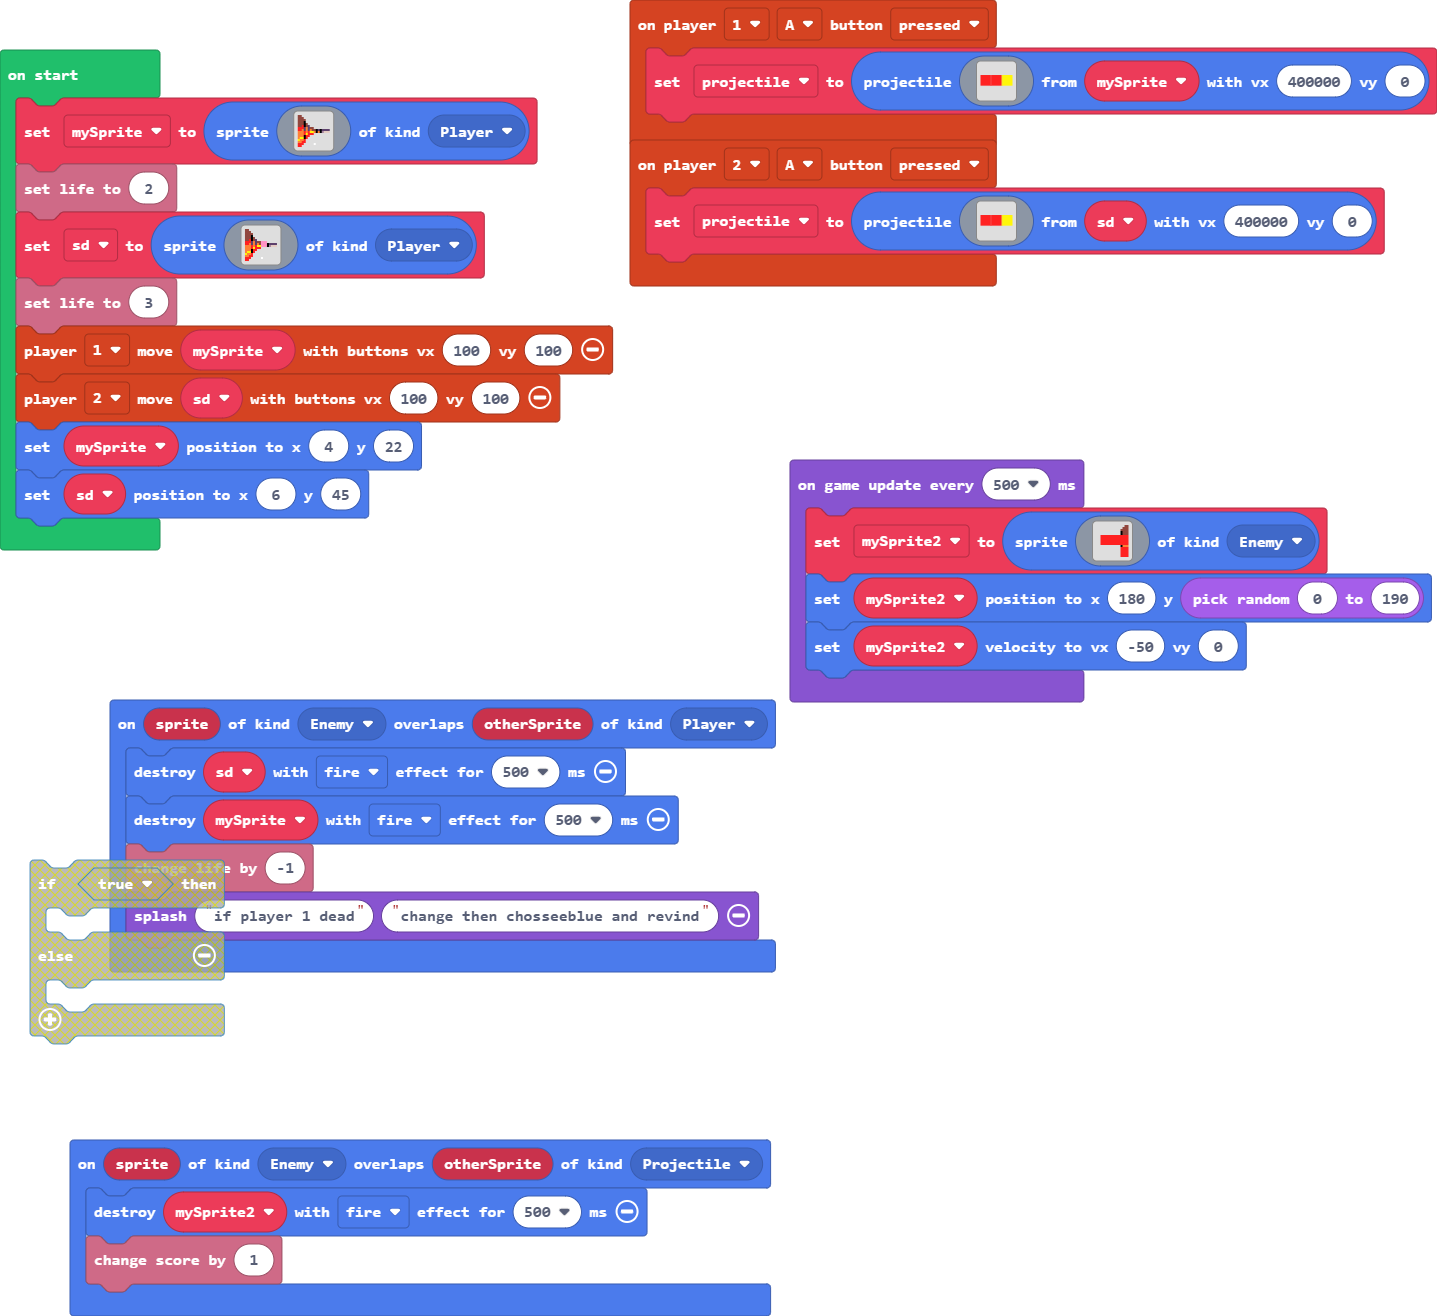
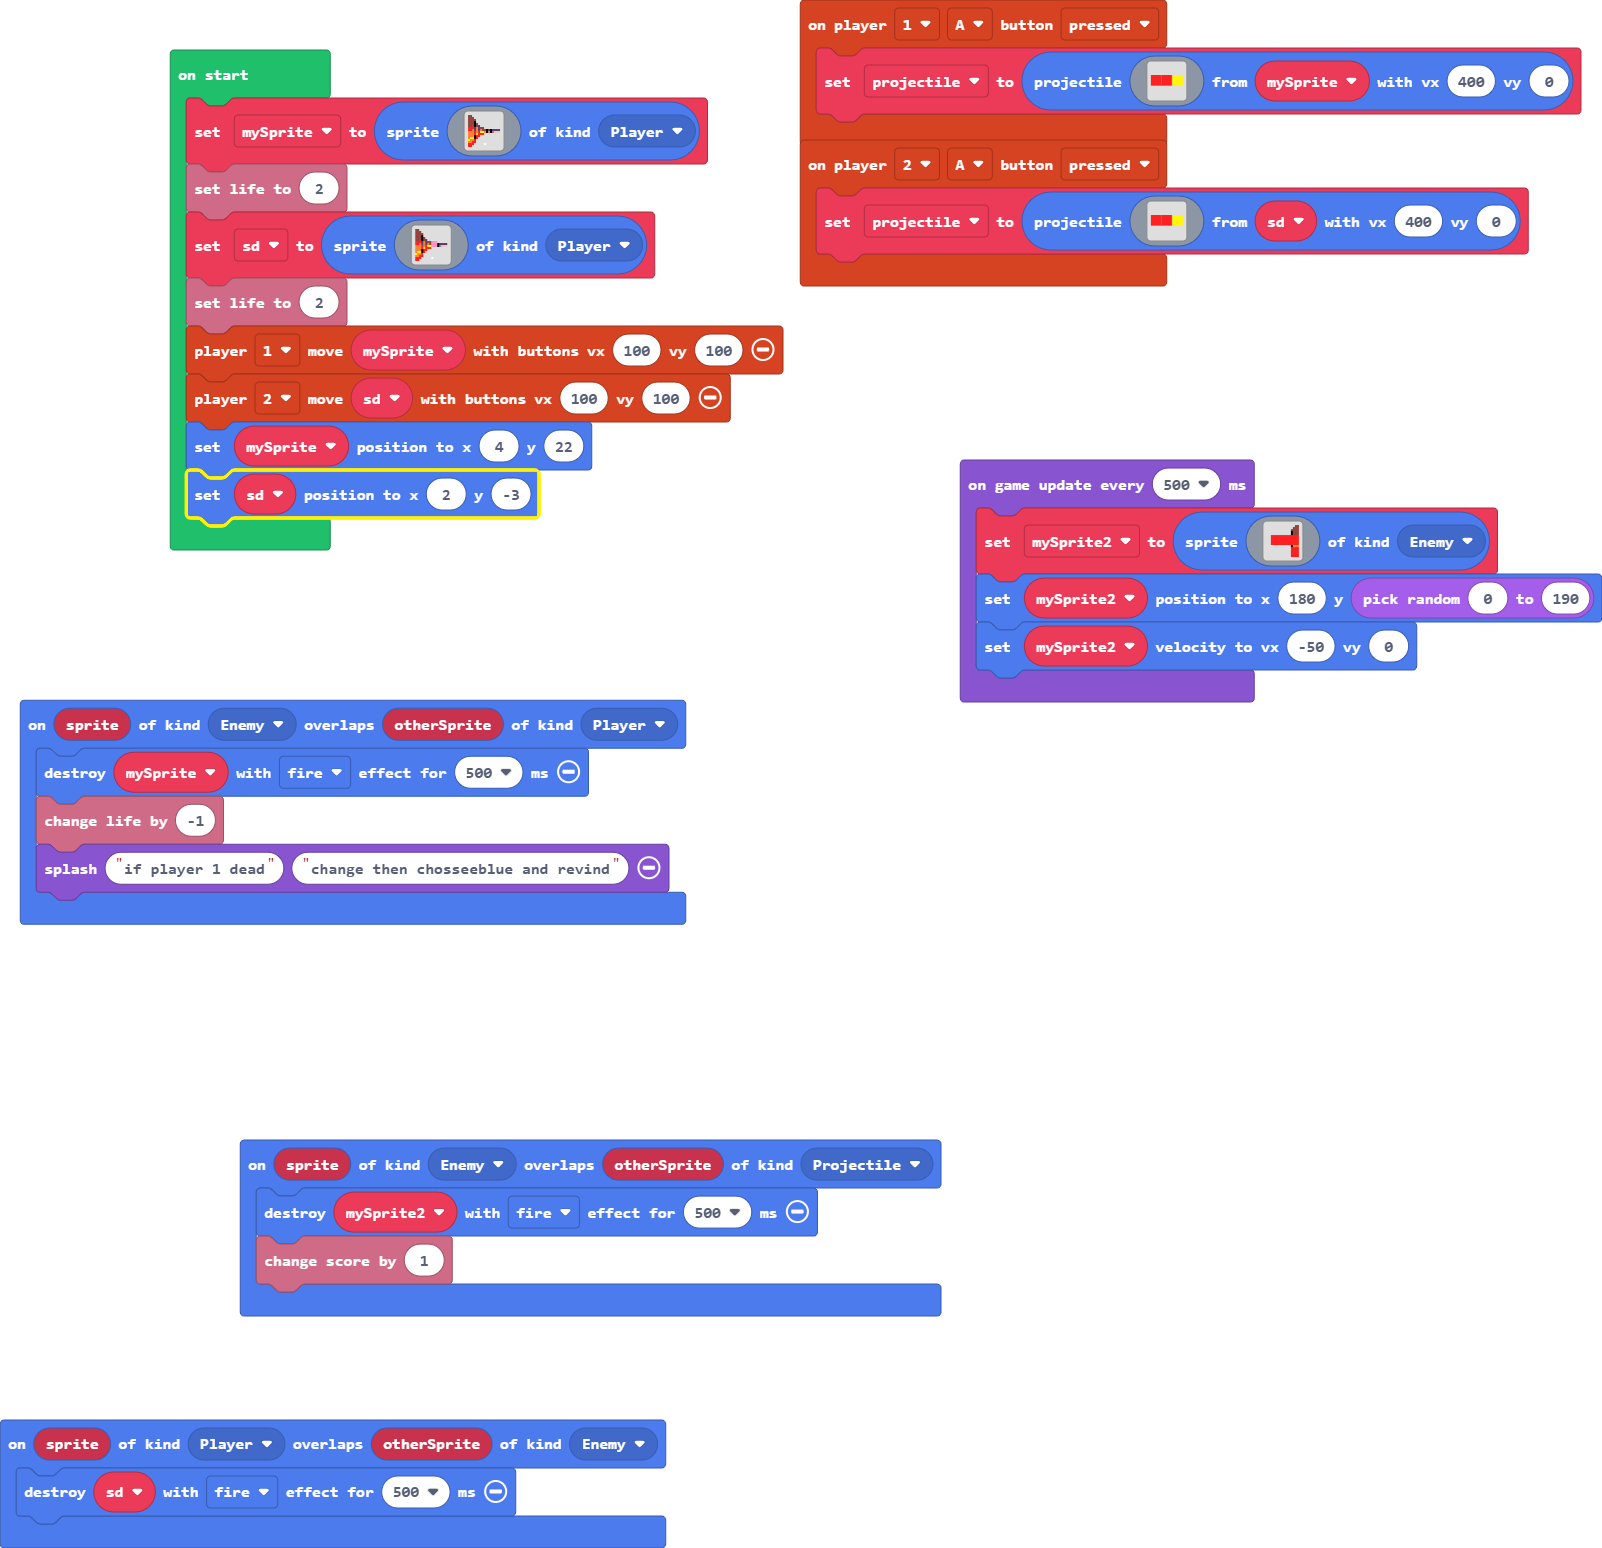
Update main.blocks, main.ts

diff --git a/main.ts b/main.ts
@@ -1,14 +1,13 @@
 controller.player2.onButtonEvent(ControllerButton.A, ControllerButtonEvent.Pressed, function () {
     projectile = sprites.createProjectileFromSprite(img`
         2 2 5 
-        `, sd, 400000, 0)
+        `, sd, 400, 0)
 })
 sprites.onOverlap(SpriteKind.Enemy, SpriteKind.Projectile, function (sprite, otherSprite) {
     sprites.destroy(mySprite2, effects.fire, 500)
     info.changeScoreBy(1)
 })
 sprites.onOverlap(SpriteKind.Enemy, SpriteKind.Player, function (sprite, otherSprite) {
-    sprites.destroy(sd, effects.fire, 500)
     sprites.destroy(mySprite, effects.fire, 500)
     info.changeLifeBy(-1)
     game.splash("if player 1 dead", "change then chosseeblue and revind")
@@ -16,7 +15,10 @@ sprites.onOverlap(SpriteKind.Enemy, SpriteKind.Player, function (sprite, otherSp
 controller.player1.onButtonEvent(ControllerButton.A, ControllerButtonEvent.Pressed, function () {
     projectile = sprites.createProjectileFromSprite(img`
         2 2 5 
-        `, mySprite, 400000, 0)
+        `, mySprite, 400, 0)
+})
+sprites.onOverlap(SpriteKind.Player, SpriteKind.Enemy, function (sprite, otherSprite) {
+    sprites.destroy(sd, effects.fire, 500)
 })
 let mySprite2: Sprite = null
 let projectile: Sprite = null
@@ -59,11 +61,11 @@ sd = sprites.create(img`
     2 2 2 . . . . . 1 . . . . . . . 
     2 2 . . . . . . . . . . . . . . 
     `, SpriteKind.Player)
-info.setLife(3)
+info.setLife(2)
 controller.player1.moveSprite(mySprite, 100, 100)
 controller.player2.moveSprite(sd, 100, 100)
 mySprite.setPosition(4, 22)
-sd.setPosition(6, 45)
+sd.setPosition(2, -3)
 game.onUpdateInterval(500, function () {
     mySprite2 = sprites.create(img`
         . . . . . . . . . . . . . . e e 
